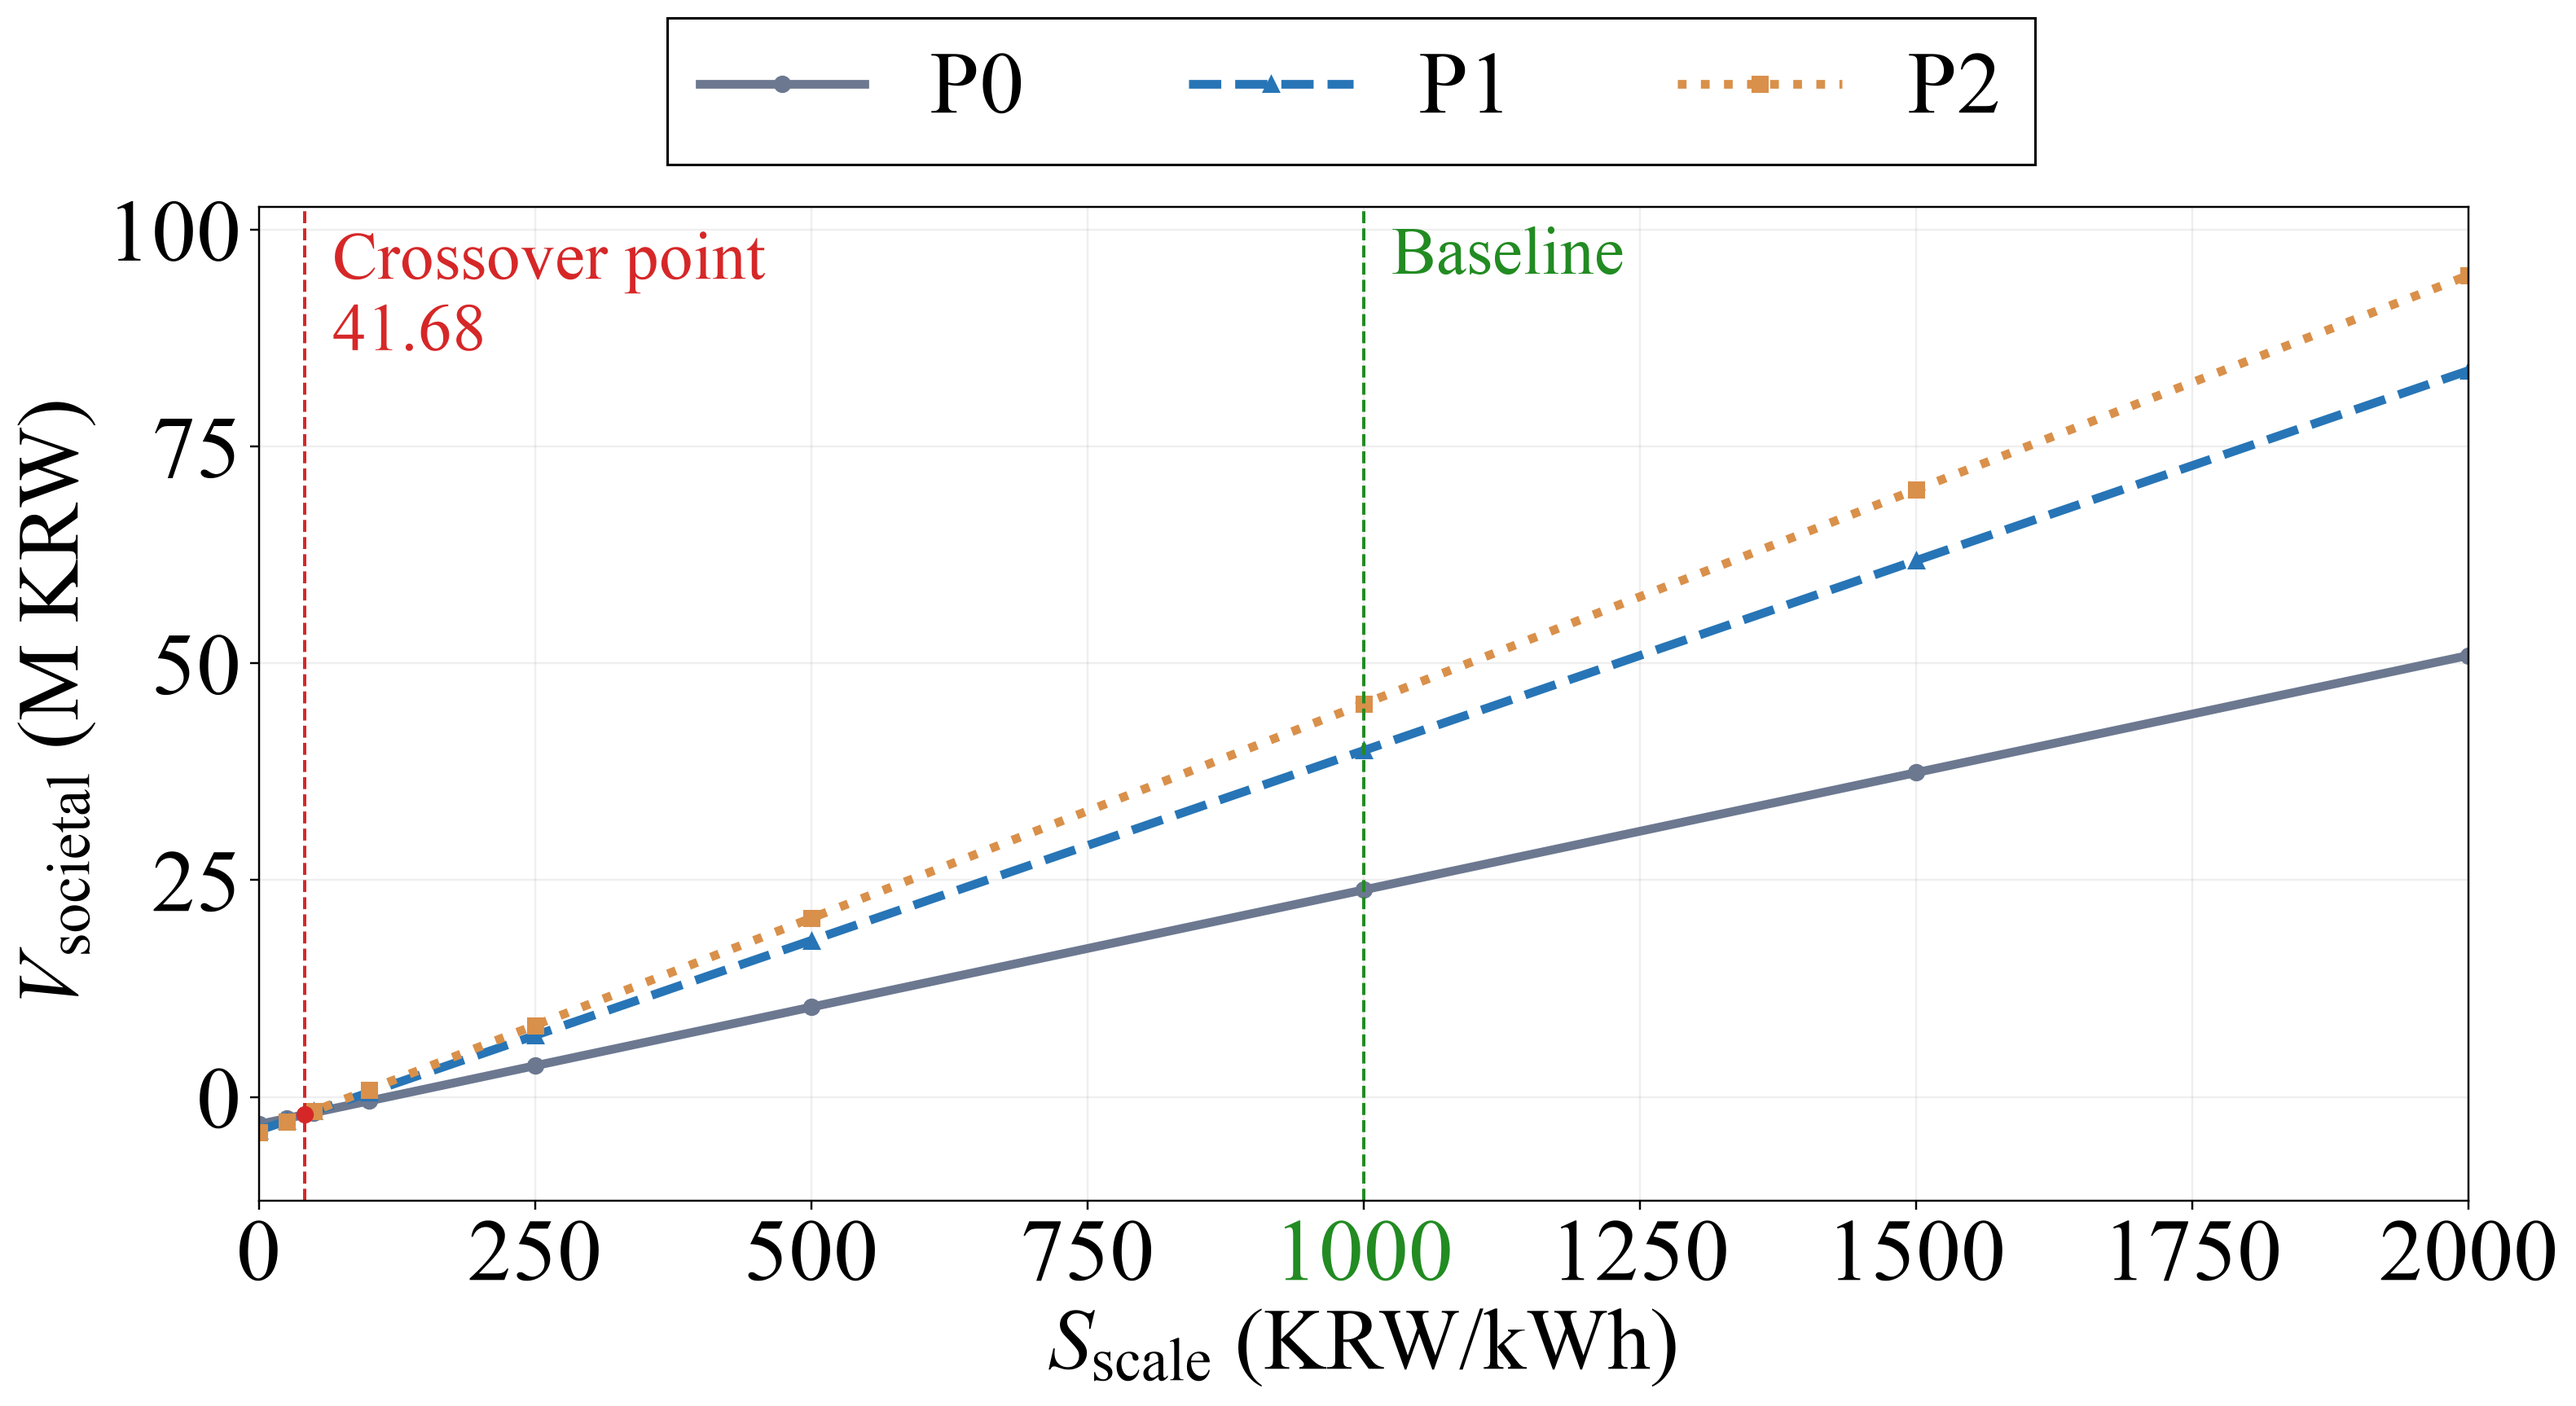
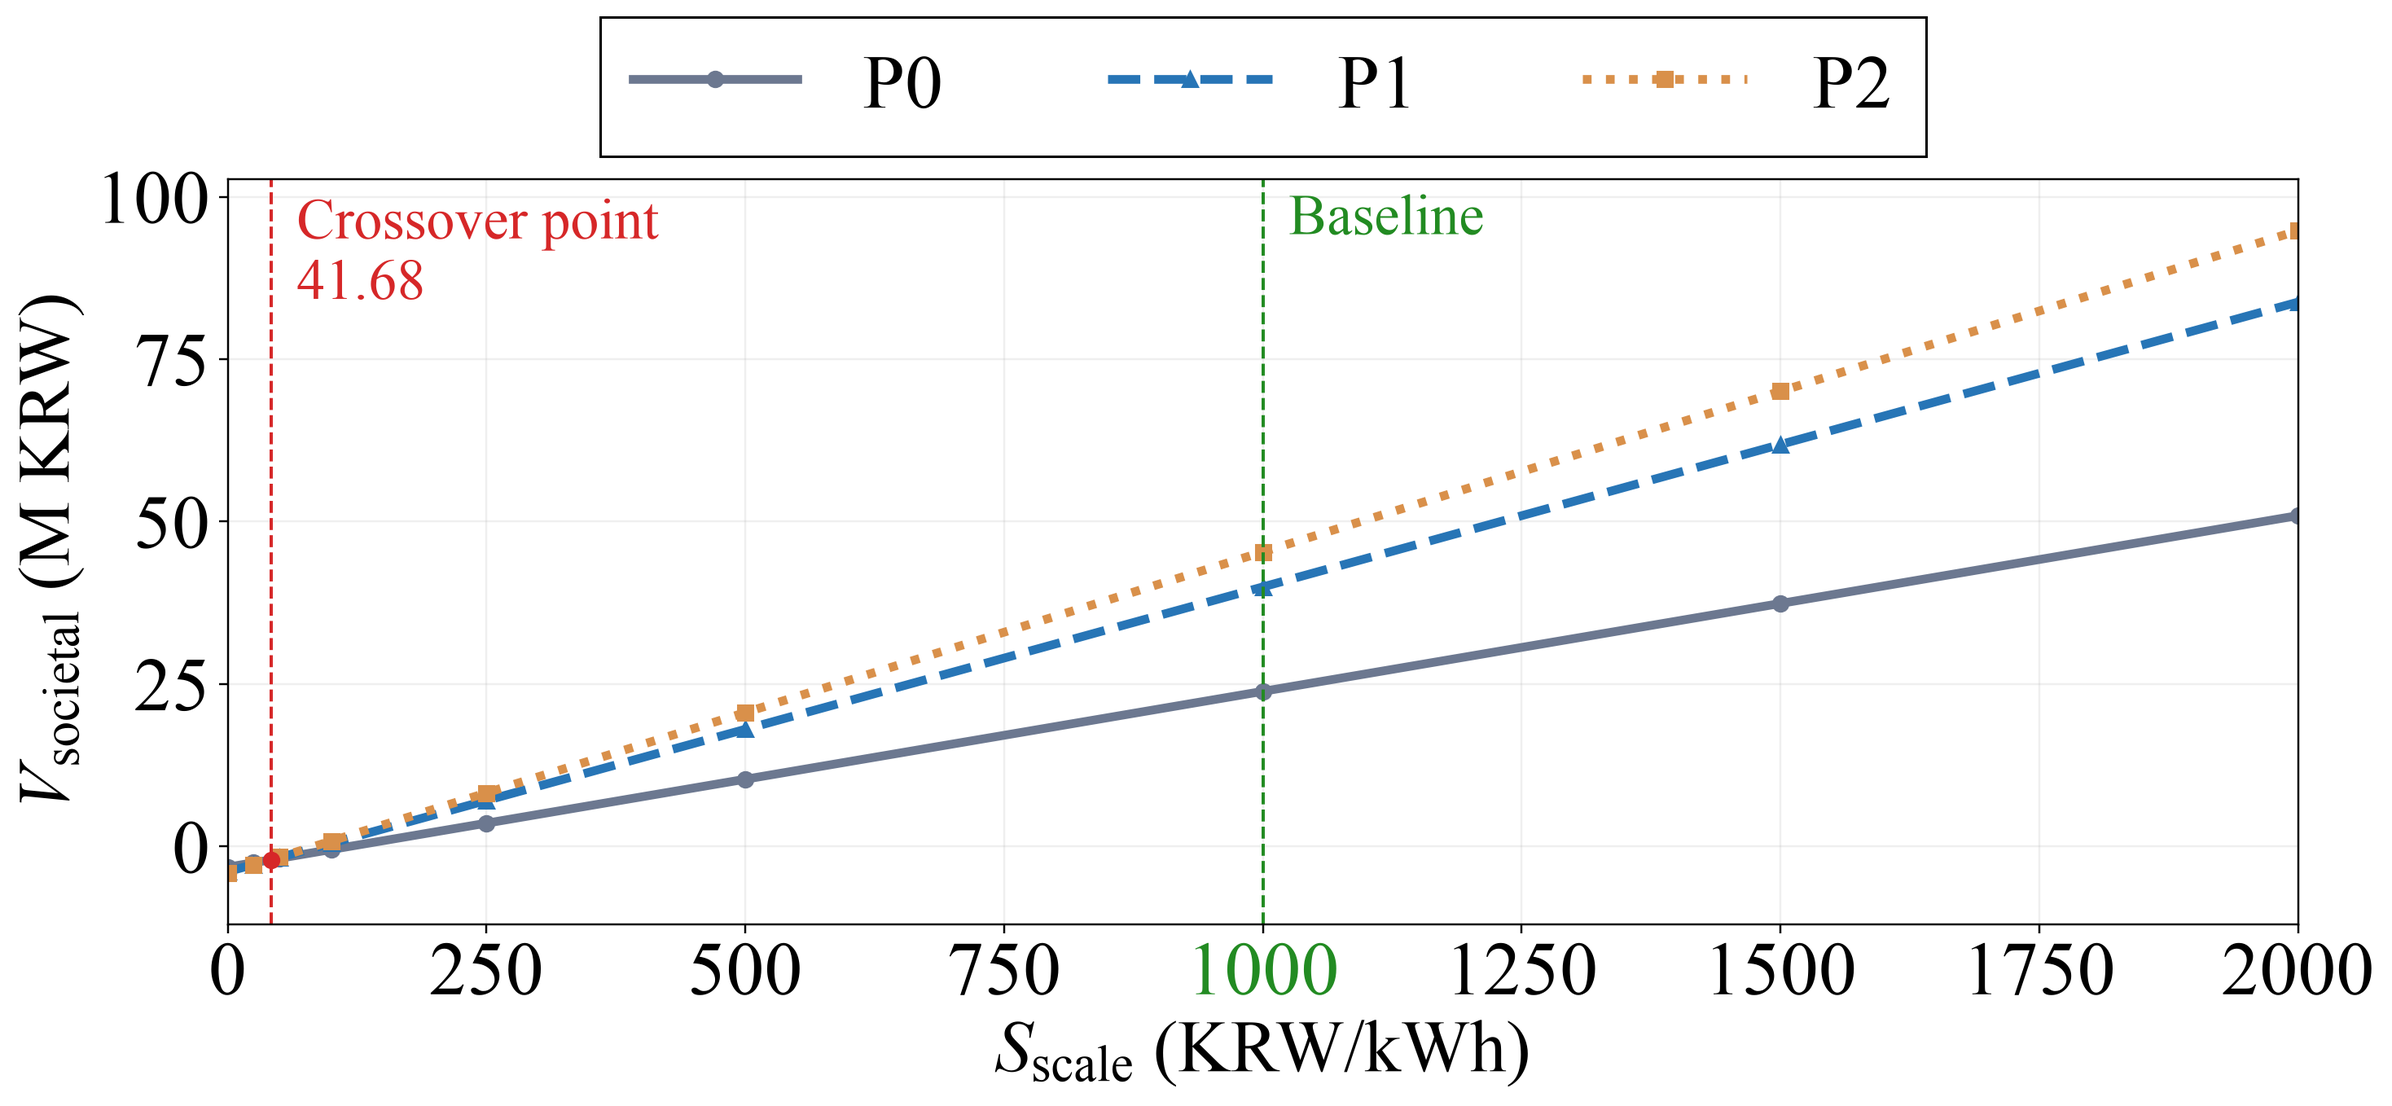
Further reduce Figure 11 height and text

diff --git a/p1_additional_analysis.py b/p1_additional_analysis.py
@@ -118,7 +118,7 @@ def main() -> None:
             "mathtext.bf": "Times New Roman:bold",
         }
     )
-    fig, axis = plt.subplots(figsize=(22, 8.55))
+    fig, axis = plt.subplots(figsize=(22, 6.84))
     for trucks in (1, 2, 5):
         p0 = runs[1.3, trucks, Strategy.P0]
         proposed = runs[1.3, trucks, Strategy.P1]
@@ -186,7 +186,7 @@ def main() -> None:
         axis.set_xlabel(r"$S_{\mathrm{scale}}$ (KRW/kWh)")
         axis.set_ylabel(r"$V_{\mathrm{societal}}$ (M KRW)")
         axis.tick_params(axis="y", labelleft=True)
-        axis.set_box_aspect(0.45)
+        axis.set_box_aspect(0.36)
         axis.set_xlim(0, 2000)
         axis.set_xticks(np.arange(0, 2001, 250))
         axis.get_xticklabels()[4].set_color("#228b22")
@@ -207,7 +207,7 @@ def main() -> None:
         framealpha=1.0,
         prop={"size": TICK_SIZE},
     )
-    scale_figure_text(fig, 1.08)
+    scale_figure_text(fig, 0.918)
     fig.tight_layout(rect=(0, 0, 1, 0.89))
     save(fig, "fig11_voll_sensitivity_of_net_societal_benefit")
     write_rows("p1_voll_sensitivity.csv", sensitivity)
